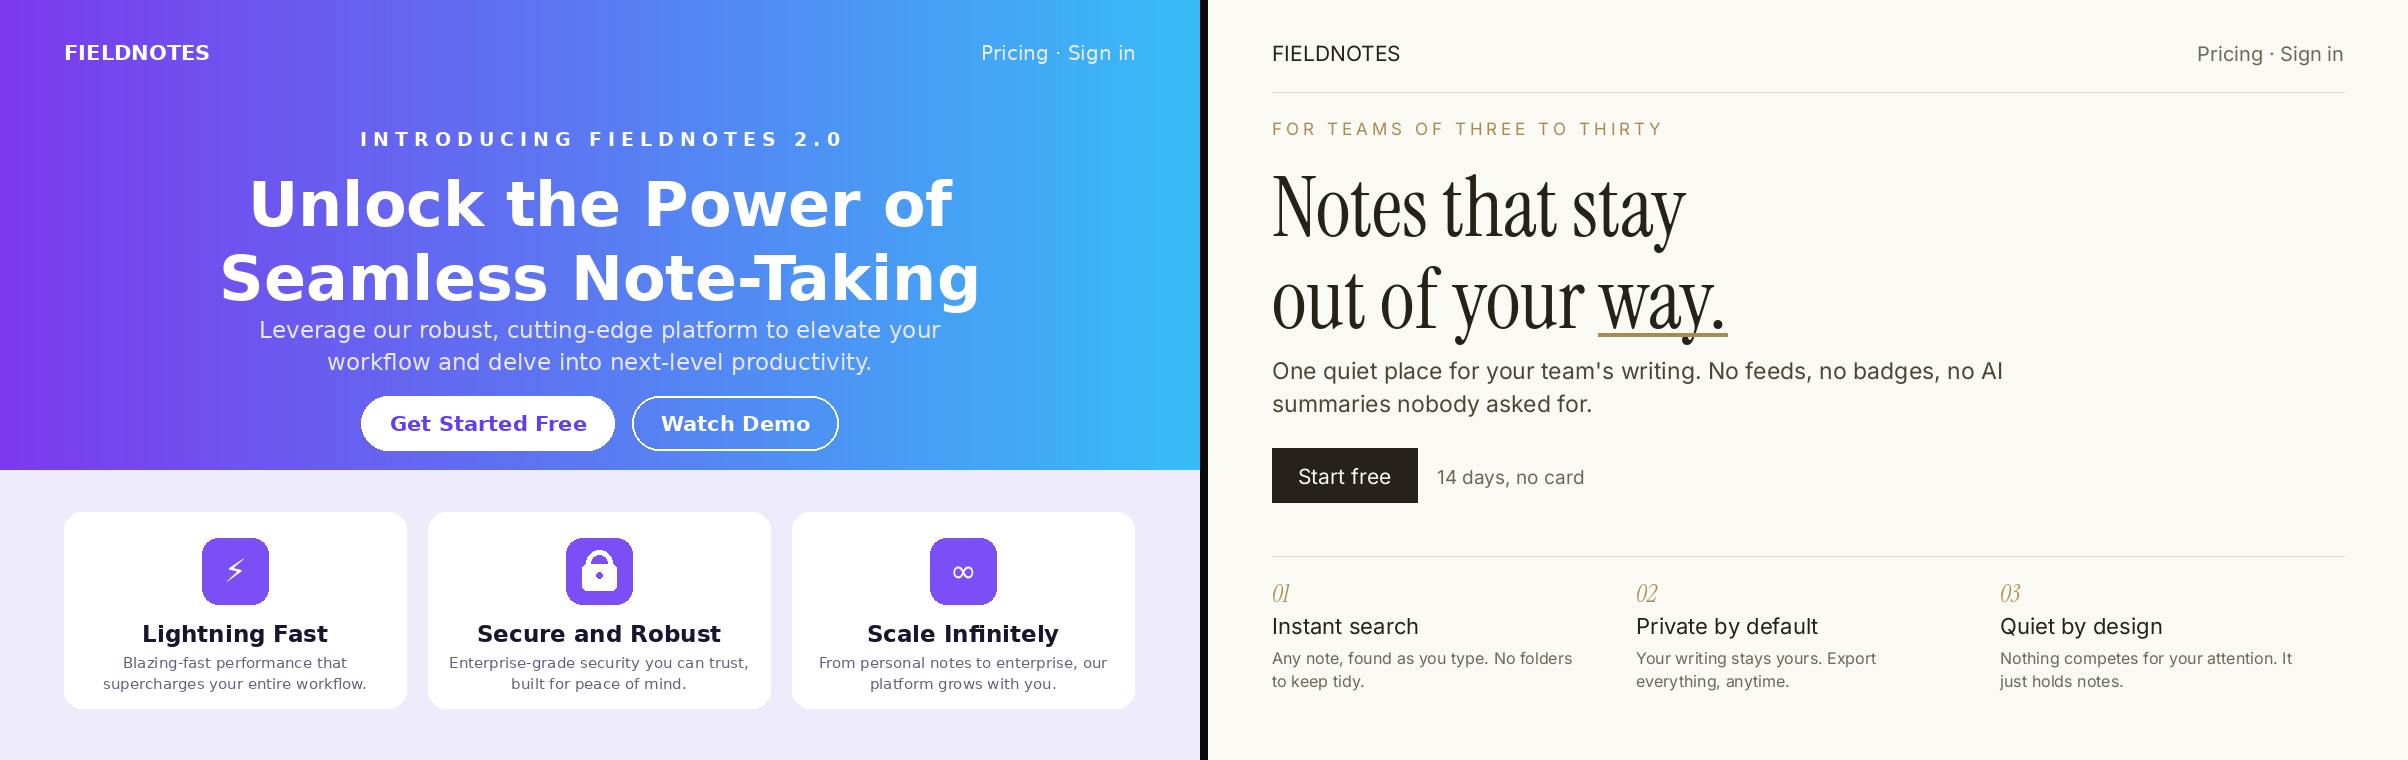
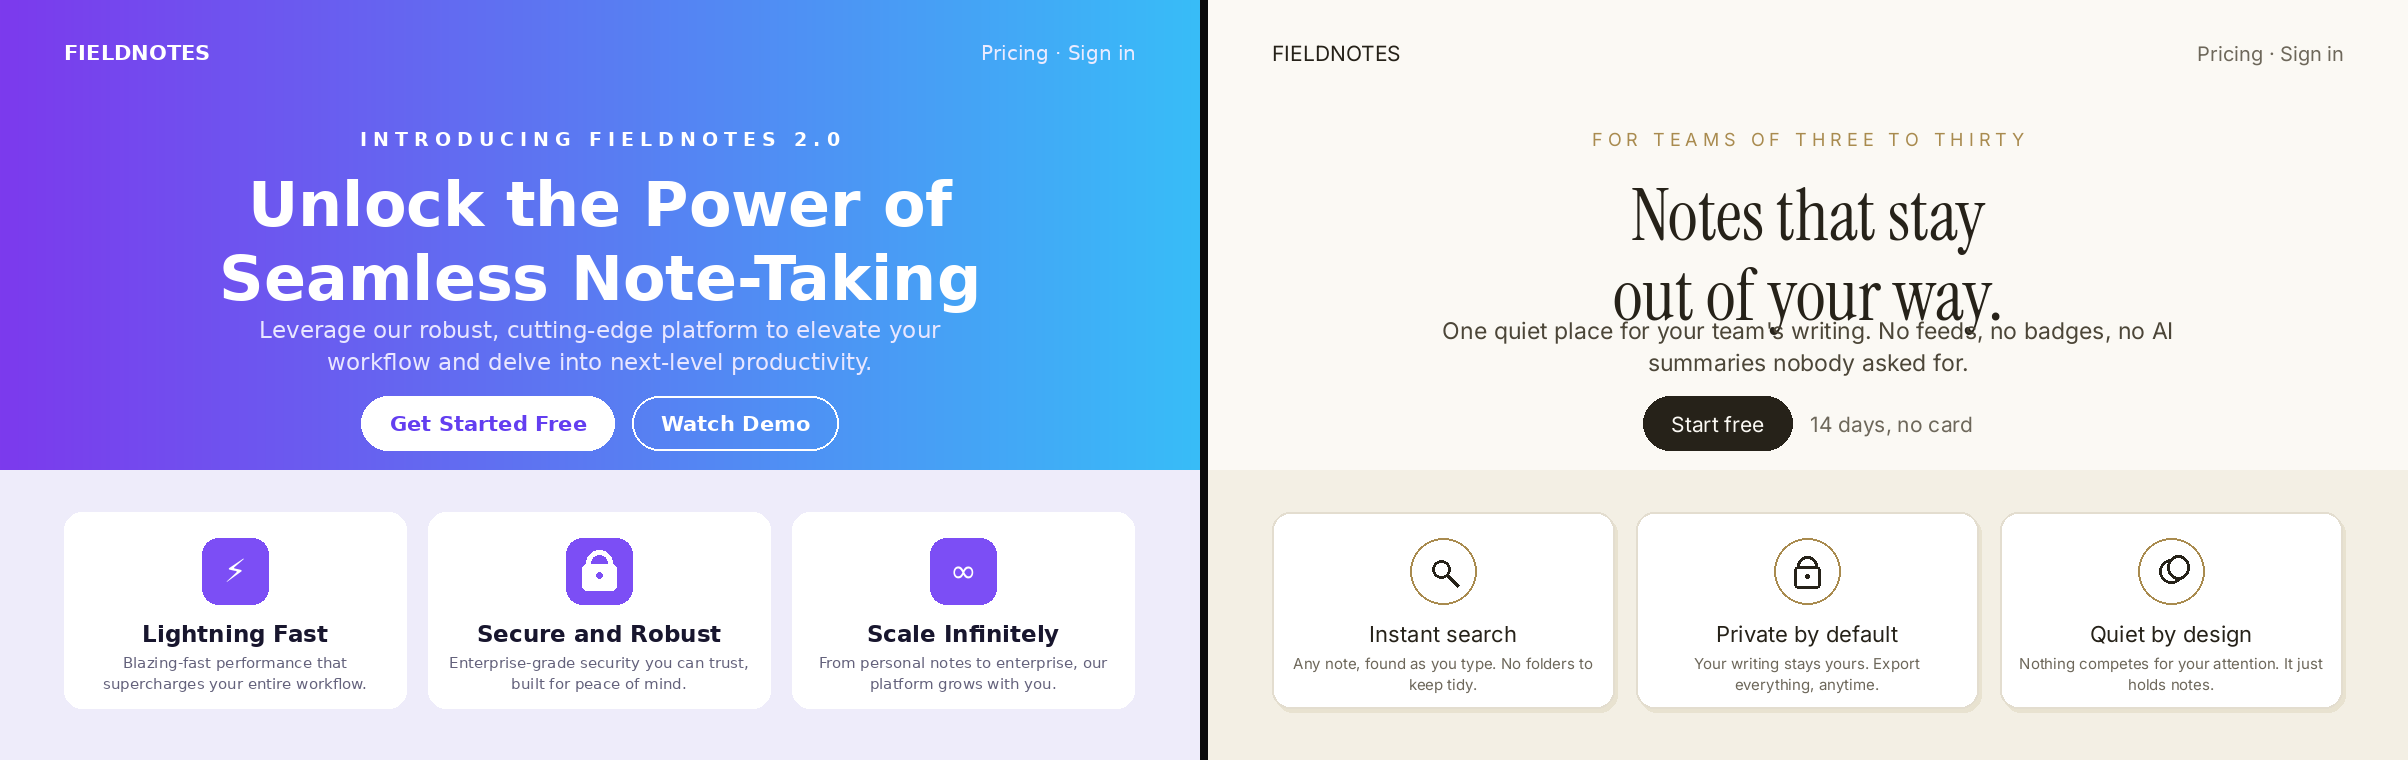
v0.2.9: the site comparison mirrors one page in two executions

diff --git a/docs/index.html b/docs/index.html
@@ -465,37 +465,29 @@
   .mock-before-card h4{ margin:0 0 4px; font-size:13px; color:#1e1b2e; }
   .mock-before-card p{ margin:0; font-size:11.5px; color:#6b6880; line-height:1.45; }
   /* After mock: calm editorial landing page */
-  .mock-after-body{
-    background:#fbf9f4; color:#262219; padding:26px 26px 22px;
-    flex:1; display:flex; flex-direction:column;
-  }
-  .mock-after-top{ display:flex; align-items:baseline; justify-content:space-between; gap:12px; border-bottom:1px solid #e3ddcf; padding-bottom:14px; }
+  .mock-after-body{ background:#fbf9f4; color:#262219; flex:1; display:flex; flex-direction:column; }
+  .mock-after-hero{ padding:26px 26px 24px; text-align:center; }
+  .mock-after-top{ display:flex; align-items:baseline; justify-content:space-between; gap:12px; }
   .mock-after-brand{ font-weight:800; letter-spacing:0.18em; font-size:13px; }
-  .mock-after-label{ font-size:10.5px; letter-spacing:0.14em; color:#8a8271; text-align:right; }
+  .mock-after-label{ font-size:12px; color:#8a8271; }
   .mock-after-body h3{
     font-family:Georgia, "Times New Roman", serif;
     font-weight:500; font-size:31px; line-height:1.15; letter-spacing:-0.01em;
-    margin:22px 0 0; max-width:400px;
+    margin:14px auto 0; max-width:400px;
   }
-  .mock-after-copy{ margin:14px 0 0; font-size:14px; line-height:1.6; color:#4c4638; max-width:430px; }
-  .mock-after-cta{ display:flex; align-items:center; gap:14px; margin-top:20px; flex-wrap:wrap; }
-  .mock-after-btn{ background:#262219; color:#fbf9f4; padding:10px 20px; border-radius:4px; font-size:13.5px; font-weight:600; }
+  .mock-after-copy{ margin:14px auto 0; font-size:14px; line-height:1.6; color:#4c4638; max-width:430px; }
+  .mock-after-cta{ display:flex; align-items:center; justify-content:center; gap:14px; margin-top:20px; flex-wrap:wrap; }
+  .mock-after-btn{ background:#262219; color:#fbf9f4; padding:10px 22px; border-radius:999px; font-size:13.5px; font-weight:600; }
   .mock-after-note{ font-size:12.5px; color:#8a8271; }
-  .mock-after-quote{
-    margin-top:auto; padding-top:20px;
-  }
-  .mock-after-quote p{
-    margin:0; border-top:1px solid #e3ddcf; padding-top:14px;
-    font-family:Georgia, "Times New Roman", serif; font-style:italic;
-    font-size:15px; line-height:1.5; color:#3a352a;
-  }
   .mock-before-nav{ display:flex; justify-content:space-between; align-items:center; font-size:12px; margin:0 0 26px; }
   .mock-before-nav strong{ letter-spacing:0.18em; font-size:12.5px; }
   .mock-before-nav span{ opacity:0.85; }
-  .mock-after-eyebrow{ margin:18px 0 0; font-size:10.5px; letter-spacing:0.14em; color:#8a8271; }
-  .mock-after-cards{ display:grid; grid-template-columns:repeat(3, minmax(0,1fr)); gap:14px; margin-top:auto; padding-top:18px; border-top:1px solid #e3ddcf; }
+  .mock-after-eyebrow{ margin:22px 0 0; font-size:10.5px; letter-spacing:0.14em; color:#a98b4f; }
+  .mock-after-cards{ display:grid; grid-template-columns:repeat(3, minmax(0,1fr)); gap:10px; padding:16px; background:#f3efe4; flex:1; align-content:start; }
   @media (max-width: 480px){ .mock-after-cards{ grid-template-columns:minmax(0,1fr); } }
-  .mock-after-num{ display:block; font-family:Georgia, "Times New Roman", serif; font-style:italic; font-size:13px; color:#a98b4f; margin:0 0 3px; }
+  .mock-after-card{ background:#fff; border:1px solid #e3ddcf; border-radius:12px; padding:14px 12px; text-align:center; }
+  .mock-after-card .ic{ width:44px; height:44px; margin:0 auto 10px; border:1.5px solid #a98b4f; border-radius:50%; display:flex; align-items:center; justify-content:center; color:#262219; }
+  .mock-after-card .ic svg{ width:20px; height:20px; }
   .mock-after-card h4{ margin:0 0 4px; font-size:12.5px; color:#262219; }
   .mock-after-card p{ margin:0; font-size:11.5px; line-height:1.5; color:#6d675a; }
   /* Converter heading */
@@ -575,30 +567,32 @@
       <div class="mock after">
         <div class="mock-label"><span><strong>AFTER</strong> · WITH SKILLPORT</span><span>Human Touch Pack</span></div>
         <div class="mock-after-body">
+         <div class="mock-after-hero">
           <div class="mock-after-top">
             <span class="mock-after-brand">FIELDNOTES</span>
             <span class="mock-after-label">Pricing · Sign in</span>
           </div>
           <p class="mock-after-eyebrow">FOR TEAMS OF THREE TO THIRTY</p>
           <h3>Notes that stay out of your way.</h3>
-          <p class="mock-after-copy">Fieldnotes keeps your team's writing in one quiet place. No feeds, no badges, no AI summaries nobody asked for. 4,100 teams switched this spring.</p>
+          <p class="mock-after-copy">One quiet place for your team's writing. No feeds, no badges, no AI summaries nobody asked for.</p>
           <div class="mock-after-cta">
             <span class="mock-after-btn">Start free</span>
             <span class="mock-after-note">14 days, no card</span>
           </div>
+         </div>
           <div class="mock-after-cards">
             <div class="mock-after-card">
-              <span class="mock-after-num">01</span>
+              <div class="ic" aria-hidden="true"><svg viewBox="0 0 24 24" fill="none" stroke="currentColor" stroke-width="2"><circle cx="11" cy="11" r="6"/><path d="M15.5 15.5 20 20"/></svg></div>
               <h4>Instant search</h4>
               <p>Any note, found as you type. No folders to keep tidy.</p>
             </div>
             <div class="mock-after-card">
-              <span class="mock-after-num">02</span>
+              <div class="ic" aria-hidden="true"><svg viewBox="0 0 24 24" fill="none" stroke="currentColor" stroke-width="2"><rect x="6" y="11" width="12" height="9" rx="2"/><path d="M9 11V8a3 3 0 0 1 6 0v3"/></svg></div>
               <h4>Private by default</h4>
               <p>Your writing stays yours. Export everything, anytime.</p>
             </div>
             <div class="mock-after-card">
-              <span class="mock-after-num">03</span>
+              <div class="ic" aria-hidden="true"><svg viewBox="0 0 24 24" fill="none" stroke="currentColor" stroke-width="2"><path d="M20 13.5A8 8 0 1 1 10.5 4a6.5 6.5 0 0 0 9.5 9.5z"/></svg></div>
               <h4>Quiet by design</h4>
               <p>Nothing competes for your attention. It just holds notes.</p>
             </div>

diff --git a/make_panels.py b/make_panels.py
@@ -99,45 +99,58 @@ for i, (ic, t1, blurb) in enumerate(cards):
 img.save(os.path.join(A, "before.png"))
 
 # ---------------------------------------------------------------- AFTER
+# Same wireframe as BEFORE, coordinate for coordinate. Only the craft differs.
 img = Image.new("RGB", (W, H), (251, 249, 244))
 d = ImageDraw.Draw(img)
-INK = (38, 34, 25); MUT = (109, 103, 90); GOLD = (169, 139, 79); HAIR = (227, 221, 207); PAPER = (251, 249, 244)
+INK = (38, 34, 25); MUT = (109, 103, 90); GOLD = (169, 139, 79); HAIR = (227, 221, 207)
+d.rectangle([0, 470, W, H], fill=(243, 239, 228))
 # nav row
 d.text((MX, NAV_Y), "FIELDNOTES", font=F(INTER, 21), fill=INK)
 r = "Pricing · Sign in"; d.text((W - MX - d.textlength(r, font=F(INTER, 20)), NAV_Y + 1), r, font=F(INTER, 20), fill=MUT)
-d.line([(MX, 92), (W - MX, 92)], fill=HAIR)
-# eyebrow (left, gold, tracked)
-tracked(d, MX, 118, "FOR TEAMS OF THREE TO THIRTY", F(INTER, 17), GOLD, 4)
-# headline (large serif, left)
+# eyebrow (centered, gold)
+e = "FOR TEAMS OF THREE TO THIRTY"
+tw = sum(d.textlength(ch, font=F(INTER, 18)) + 5 for ch in e) - 5
+tracked(d, (W - tw) / 2, EYEBROW_Y, e, F(INTER, 18), GOLD, 5)
+# headline (centered, serif)
 for i, line in enumerate(["Notes that stay", "out of your way."]):
-    d.text((MX, 152 + i * 92), line, font=F(SERIF, 84), fill=INK)
-# gold stroke under "way." only
-wy = 152 + 92 + 90
-x0 = MX + d.textlength("out of your ", font=F(SERIF, 84))
-x1 = x0 + d.textlength("way.", font=F(SERIF, 84))
-d.line([(x0, wy), (x1, wy)], fill=GOLD, width=4)
-# sub (left)
-for i, line in enumerate(wrap(d, "One quiet place for your team's writing. No feeds, no badges, no AI summaries nobody asked for.", F(INTER, 23), 800)):
-    d.text((MX, 356 + i * 33), line, font=F(INTER, 23), fill=(76, 70, 56))
-# CTA row
-b = "Start free"; f1 = F(INTER, 21)
-w1 = d.textlength(b, font=f1) + 52
-d.rectangle([MX, 448, MX + w1, 448 + 54], fill=INK)
-d.text((MX + 26, 448 + 15), b, font=f1, fill=PAPER)
-d.text((MX + w1 + 20, 448 + 17), "14 days, no card", font=F(INTER, 19), fill=MUT)
-# feature row: numbered editorial index, hairline on top
-FY = 556
-d.line([(MX, FY), (W - MX, FY)], fill=HAIR)
-feats = [("01", "Instant search", "Any note, found as you type. No folders to keep tidy."),
-         ("02", "Private by default", "Your writing stays yours. Export everything, anytime."),
-         ("03", "Quiet by design", "Nothing competes for your attention. It just holds notes.")]
+    fnt = F(SERIF, 72)
+    d.text(((W - d.textlength(line, font=fnt)) / 2, HEAD_Y + i * 80), line, font=fnt, fill=INK)
+# sub (centered)
+for i, line in enumerate(wrap(d, "One quiet place for your team's writing. No feeds, no badges, no AI summaries nobody asked for.", F(INTER, 23), 780)):
+    d.text(((W - d.textlength(line, font=F(INTER, 23))) / 2, SUB_Y + i * 32), line, font=F(INTER, 23), fill=(76, 70, 56))
+# CTA pair (centered): dark pill + quiet text link, same slots as BEFORE
+b1 = "Start free"; f1 = F(INTER, 21)
+w1 = d.textlength(b1, font=f1) + 56
+b2 = "14 days, no card"; w2 = d.textlength(b2, font=f1)
+x = (W - w1 - 18 - w2) / 2
+d.rounded_rectangle([x, CTA_Y, x + w1, CTA_Y + 54], 27, fill=INK)
+d.text((x + 28, CTA_Y + 15), b1, font=f1, fill=(251, 249, 244))
+d.text((x + w1 + 18, CTA_Y + 15), b2, font=f1, fill=MUT)
+# feature cards: same geometry as BEFORE, paper cards with outline icons
+feats = [("search", "Instant search", "Any note, found as you type. No folders to keep tidy."),
+         ("lock", "Private by default", "Your writing stays yours. Export everything, anytime."),
+         ("moon", "Quiet by design", "Nothing competes for your attention. It just holds notes.")]
 cw = (W - 2 * MX - 2 * 22) // 3
-for i, (num, t1, blurb) in enumerate(feats):
+for i, (ic, t1, blurb) in enumerate(feats):
     x = MX + i * (cw + 22)
-    d.text((x, FY + 22), num, font=F(SERIFI, 24), fill=GOLD)
-    d.text((x, FY + 56), t1, font=F(INTER, 22), fill=INK)
-    for j, line in enumerate(wrap(d, blurb, F(INTER, 16), cw - 30)):
-        d.text((x, FY + 92 + j * 23), line, font=F(INTER, 16), fill=MUT)
+    d.rounded_rectangle([x + 3, FEAT_Y + 4, x + cw + 3, FEAT_Y + FEAT_H + 4], 18, fill=(232, 226, 208))
+    d.rounded_rectangle([x, FEAT_Y, x + cw, FEAT_Y + FEAT_H], 18, fill=(255, 255, 255), outline=HAIR, width=2)
+    cx = x + cw / 2
+    d.ellipse([cx - 33, FEAT_Y + 26, cx + 33, FEAT_Y + 92], outline=GOLD, width=2)
+    if ic == "search":
+        d.ellipse([cx - 11, FEAT_Y + 48, cx + 7, FEAT_Y + 66], outline=INK, width=3)
+        d.line([(cx + 5, FEAT_Y + 64), (cx + 15, FEAT_Y + 74)], fill=INK, width=3)
+    elif ic == "lock":
+        d.arc([cx - 10, FEAT_Y + 44, cx + 10, FEAT_Y + 64], 180, 360, fill=INK, width=3)
+        d.rounded_rectangle([cx - 13, FEAT_Y + 54, cx + 13, FEAT_Y + 76], 4, outline=INK, width=3)
+        d.ellipse([cx - 2, FEAT_Y + 62, cx + 2, FEAT_Y + 66], fill=INK)
+    else:
+        d.ellipse([cx - 12, FEAT_Y + 47, cx + 12, FEAT_Y + 71], outline=INK, width=3)
+        d.ellipse([cx - 4, FEAT_Y + 43, cx + 18, FEAT_Y + 67], fill=(255, 255, 255))
+        d.ellipse([cx - 4, FEAT_Y + 43, cx + 18, FEAT_Y + 67], outline=INK, width=3)
+    tw = d.textlength(t1, font=F(INTER, 22)); d.text((cx - tw / 2, FEAT_Y + 108), t1, font=F(INTER, 22), fill=INK)
+    for j, line in enumerate(wrap(d, blurb, F(INTER, 15), cw - 36)):
+        tw = d.textlength(line, font=F(INTER, 15)); d.text((cx - tw / 2, FEAT_Y + 142 + j * 21), line, font=F(INTER, 15), fill=MUT)
 img.save(os.path.join(A, "after.png"))
 
 # combined

diff --git a/RELEASE-NOTES.md b/RELEASE-NOTES.md
@@ -1,5 +1,9 @@
 # Release notes
 
+## v0.2.9
+
+The comparison is now one page in two executions everywhere, site included: the after panel on the website mirrors the before panel slot for slot, centered hero, pill buttons, three icon cards, with the craft carried by typography, palette, and copy.
+
 ## v0.2.8
 
 The after panel earns its place now. The earlier version mistook empty for calm: the redesigned after is a proper editorial page, warm paper, a large serif headline with one gold stroke, and a numbered index instead of icon cards. Next to it, the before reads exactly like what it is, a template.
